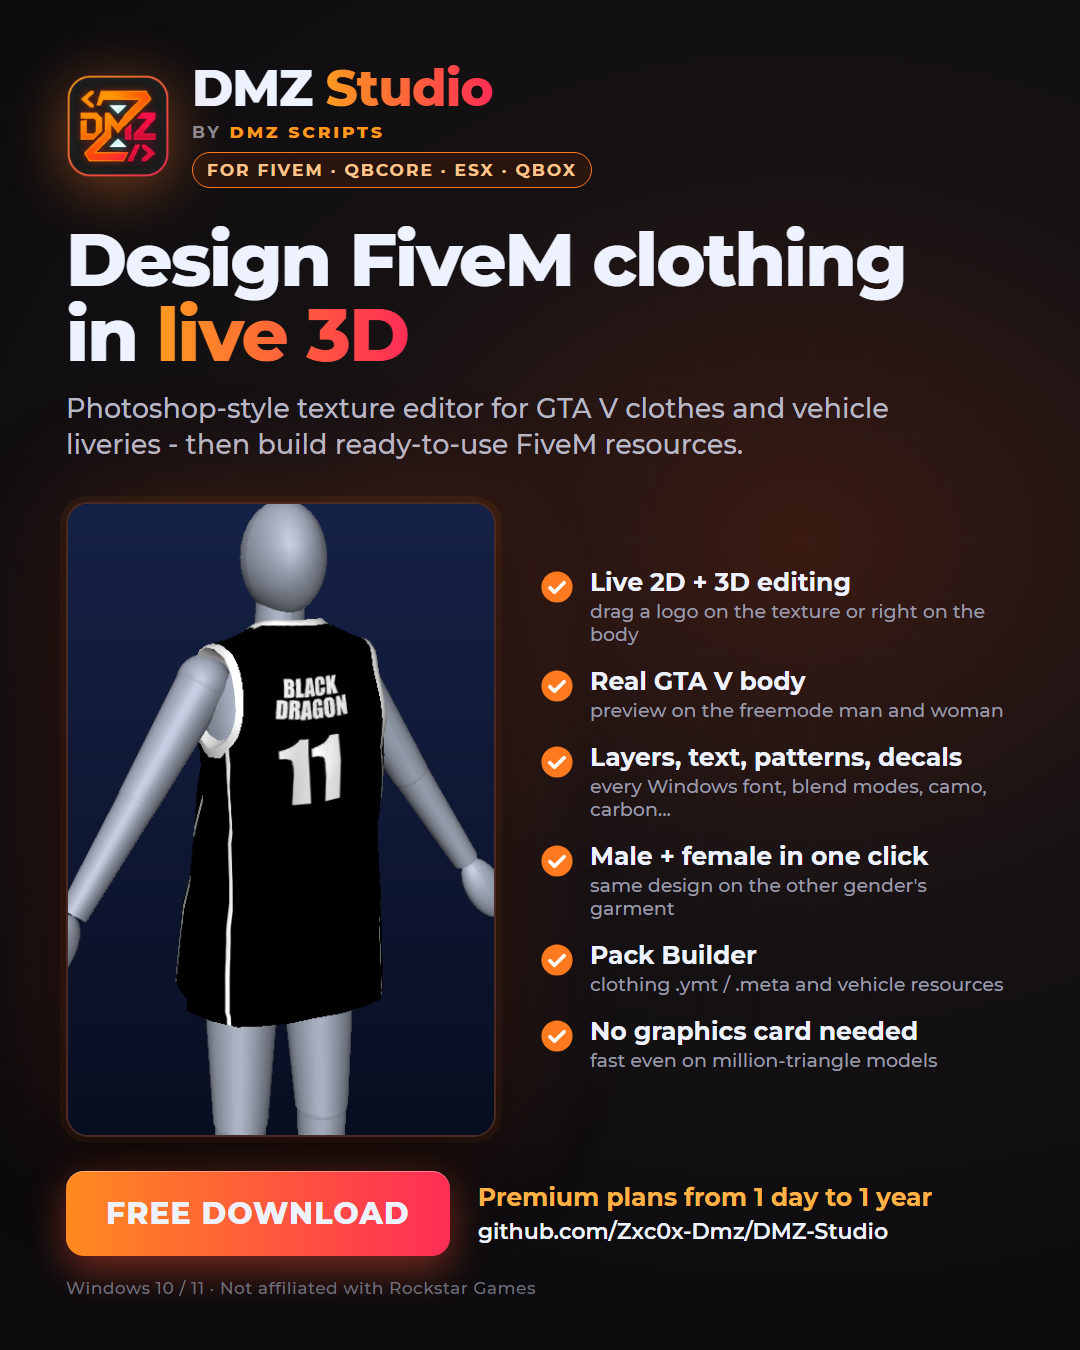
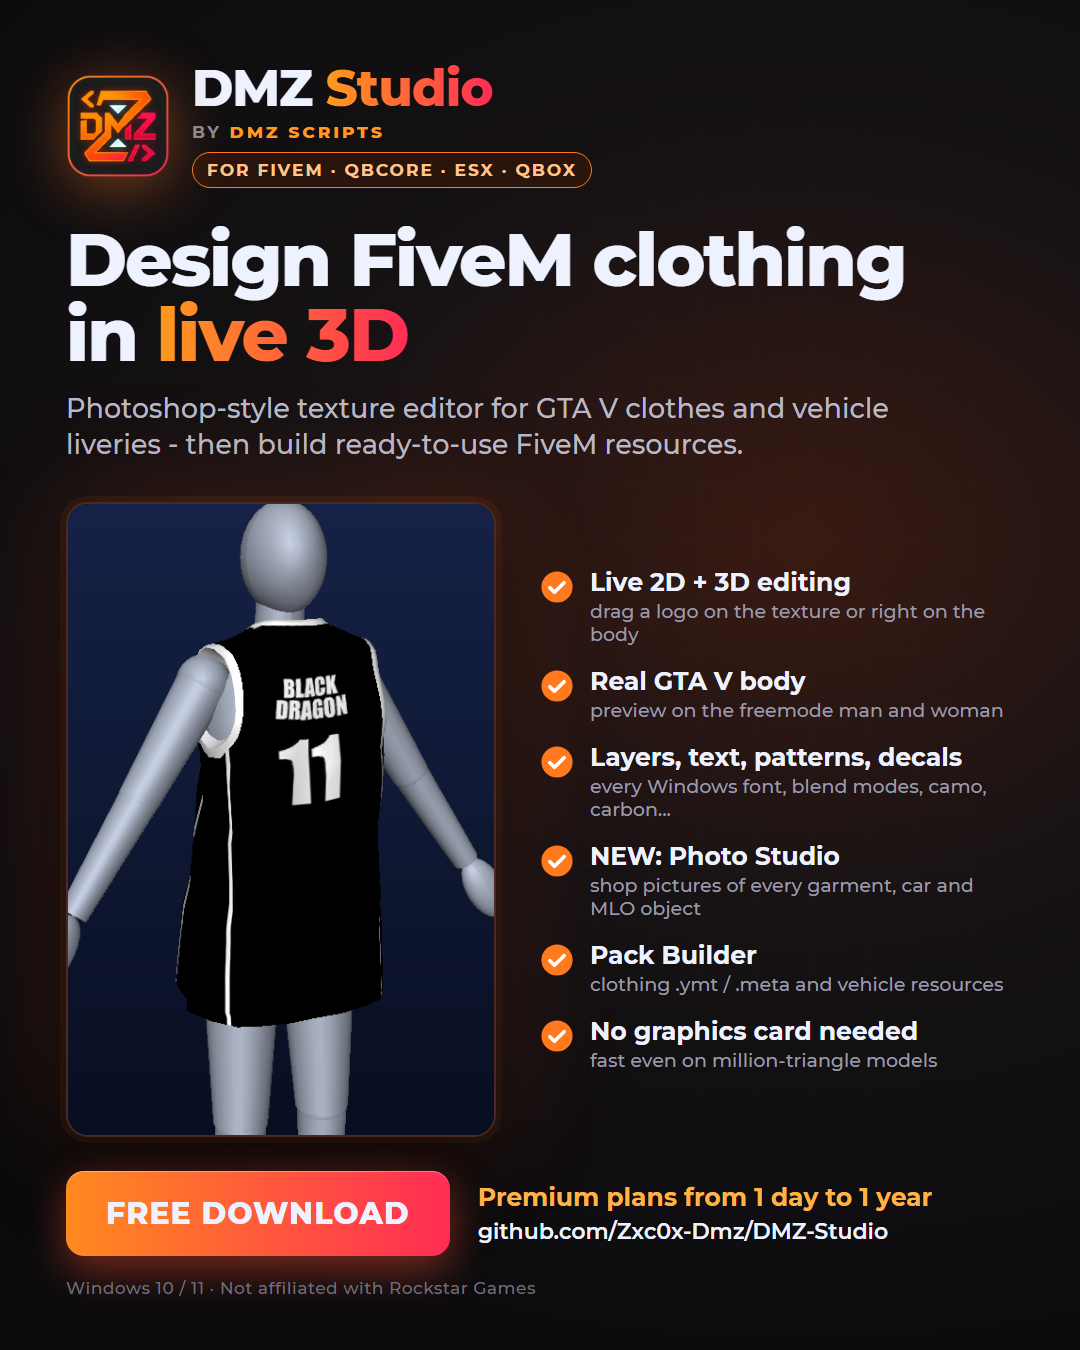
Update the DMZ Studio page

Changed region(s): [[0.55, 0.6222, 0.8861, 0.6844]]

diff --git a/README.md b/README.md
@@ -27,7 +27,7 @@
 
 ## Download
 
-**[Download DMZ-Studio.zip](https://github.com/Zxc0x-Dmz/DMZ-Studio/releases/latest/download/DMZ-Studio.zip)** - Windows 10/11 64-bit, version **1.2.4**.
+**[Download DMZ-Studio.zip](https://github.com/Zxc0x-Dmz/DMZ-Studio/releases/latest/download/DMZ-Studio.zip)** - Windows 10/11 64-bit, version **1.2.5**.
 No installer and nothing else to install. See [what's new](https://github.com/Zxc0x-Dmz/DMZ-Studio/releases).
 
 ## Features
@@ -91,6 +91,17 @@ from a web link** that admins change in game with `/banner`.
 </td>
 </tr>
 <tr>
+<td colspan="2" valign="top">
+
+### 📸 Photo Studio - shop pictures without the game
+A picture of **every garment, car or MLO object** in a folder, straight from the files - no screenshots in game.
+Clothes are worn by the GTA V body (hair and hats on the head), cars get the paint colour you pick and are named by
+spawn name for dealerships. See-through background and tiny **WebP** files (a few KB each), named by file or by
+in-game number (like uz_AutoShot).
+
+</td>
+</tr>
+<tr>
 <td valign="top">
 
 ### 🧵 Works with what you have
@@ -150,6 +161,7 @@ real GTA V body.
 | Same design for the other gender | - | ✅ |
 | MLO & Banners: browse signs and save them as PNG | ✅ | ✅ |
 | MLO & Banners: replace pictures, online banners | - | ✅ |
+| Photo Studio: pictures of every garment, car, MLO object | - | ✅ |
 
 Premium is available for **1 day, 1 week, 1 month, 3 months or 1 year**. A license works on one PC.
 
@@ -220,6 +232,7 @@ Sharing DMZ Studio? Use the logo and posters:
 [story 1080×1920](assets/posters/dmz-studio-story-1080x1920.png) ·
 [wide 1920×1080](assets/posters/dmz-studio-wide-1920x1080.png) ·
 [all features](assets/posters/dmz-studio-features-1080x1350.png) ·
+[Photo Studio](assets/posters/dmz-studio-photo-1080x1350.png) ·
 [MLO & Banners](assets/posters/dmz-studio-mlo-1080x1350.png)
 
 ---
